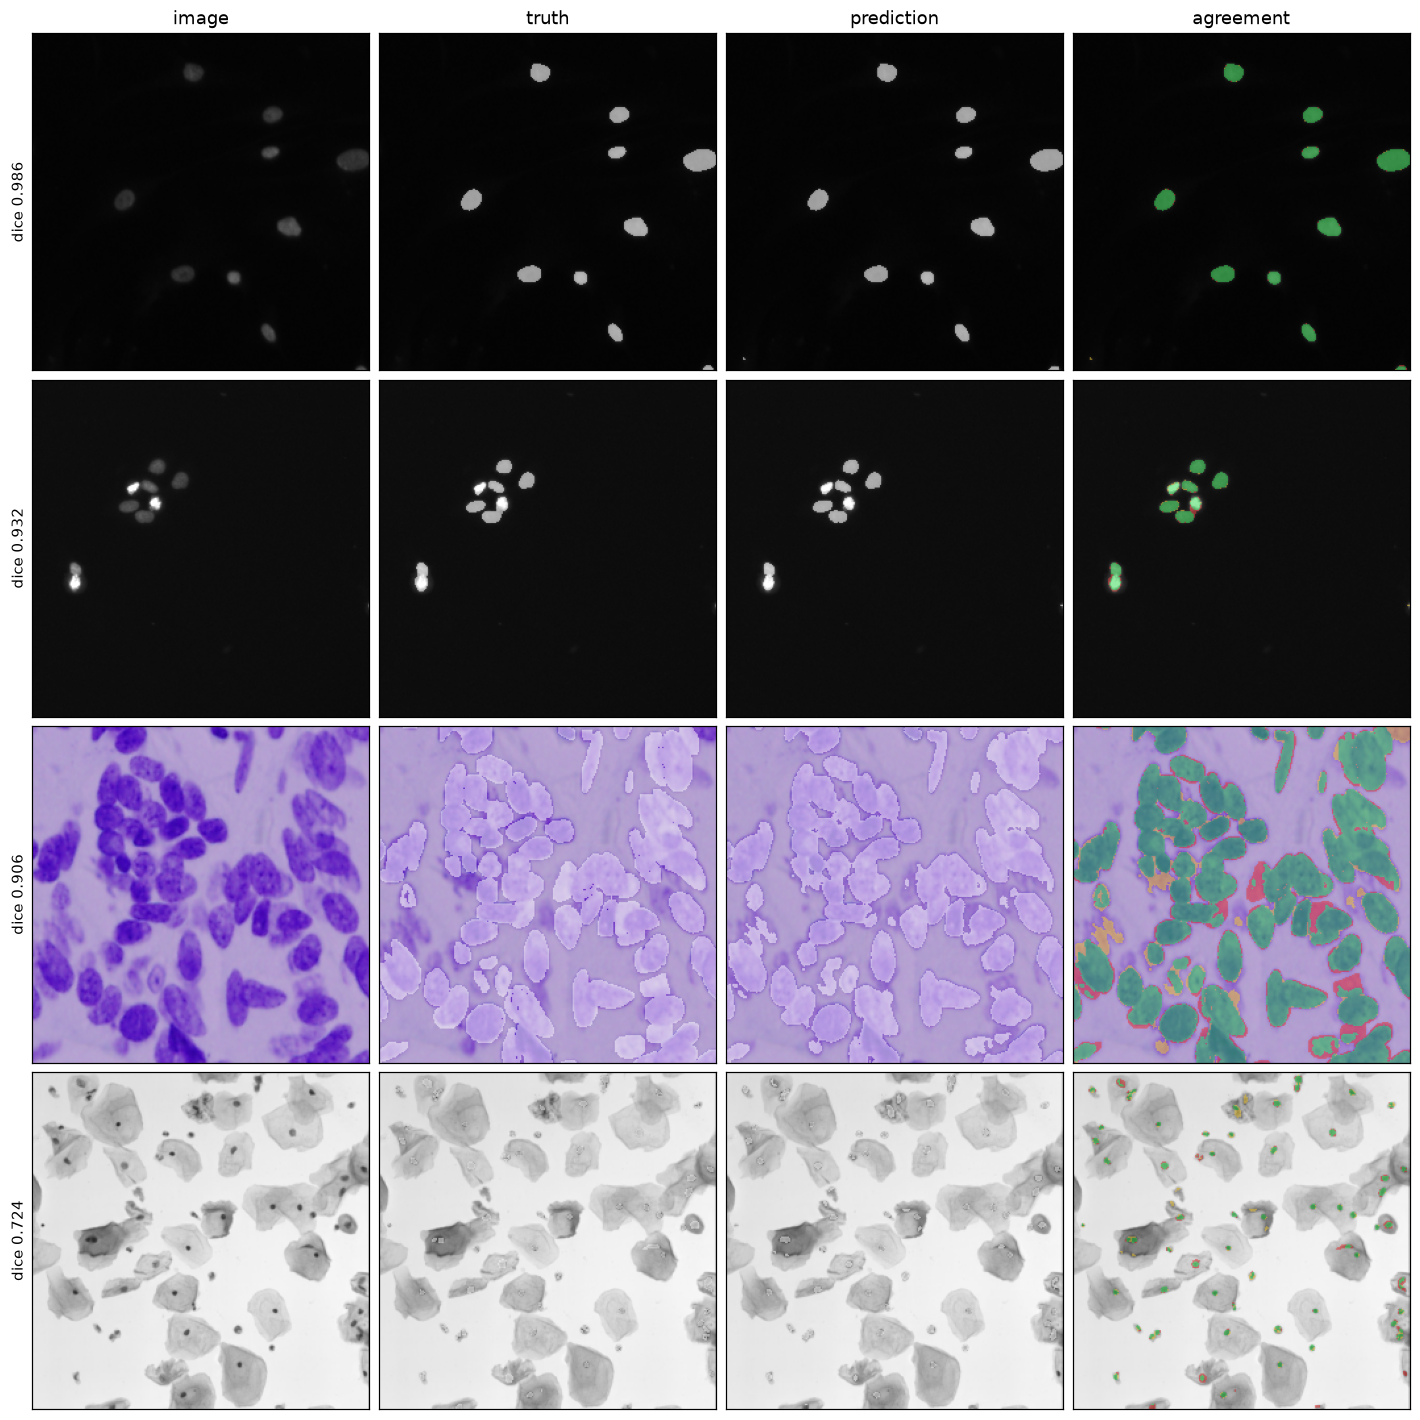
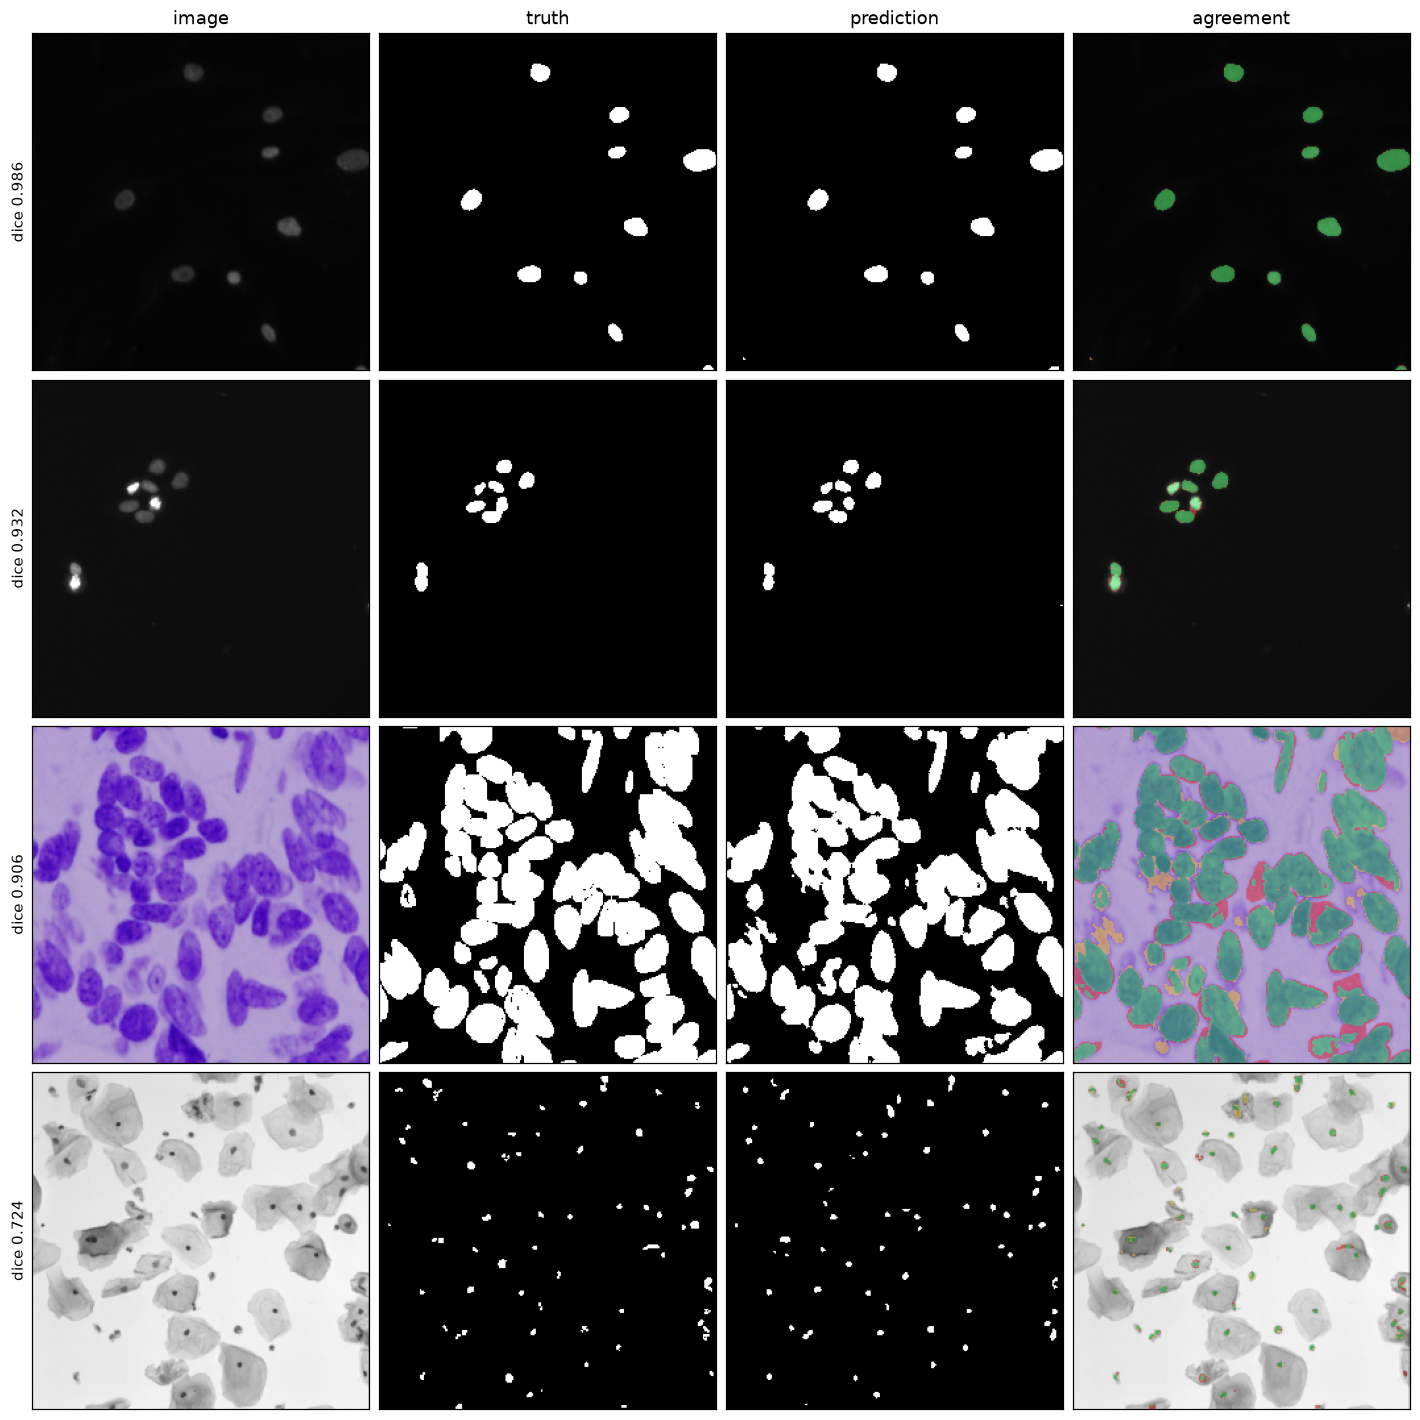
The mask panels are the mask, as R draws them
The most visible divergence of the night, found by putting the two figures side
by side rather than by reading either: R renders truth and prediction as the
mask in its own colours and keeps the image underneath only for the agreement
panel, and this tinted all three over the image. The same call, a different
picture on each side.

R's is the one that changes, which is to say neither: its figures are published
in a README and three precomputed articles, and this half is a day old. The
reasoning survives the coin-toss anyway - the agreement panel asks where the
boundary falls, so it needs the tissue, and the mask panels ask what shape the
mask is, where tissue showing through makes two shapes harder to compare.

Pinned on the pixels and not the titles: a mask panel holds nothing but colormap
colours and the agreement panel holds pixels of the image. Proven able to fail.

The colour conversion is one function now instead of living inside
`overlay_mask`, and it stays private: R exports it under this name, but the
public counterpart here would want a `Masks and volumes` group with no other
member - a sidebar section about reading, joining and writing masks, holding one
function that does none of them. Worth deciding with that group.

Noticed in passing and not acted on: R documents `alpha` as "how strongly to
tint the overlays", plural, while only one panel there is an overlay.

Claude-Session: https://claude.ai/code/session_01S6WhwioD32xP6gEHg2Ak6c

diff --git a/pyplatypus/plots.py b/pyplatypus/plots.py
@@ -27,7 +27,7 @@ import matplotlib
 import numpy as np
 from matplotlib.figure import Figure
 
-from pyplatypus.data.masks import onehot_to_colours
+from pyplatypus.data.masks import MaskError, onehot_to_colours
 from pyplatypus.errors import PlatypusError
 from pyplatypus.style import (
     AGREEMENT_COLOURS,
@@ -81,6 +81,47 @@ def _blend(picture: np.ndarray, tint: np.ndarray, where: np.ndarray, alpha: floa
         layer[where] = (1.0 - alpha) * layer[where] + alpha * tint[channel]
 
 
+def _classes_to_colours(mask: np.ndarray, colormap: list[tuple[int, int, int]]) -> np.ndarray:
+    """A mask as the picture its colormap says it is, whichever way it arrived.
+
+    Private. R exports this under this name, and the public counterpart here would want a
+    `Masks and volumes` group that has no other member - a sidebar section whose description
+    is about reading, joining and writing masks, holding one function that does none of
+    those. Worth deciding with that group rather than as a by-product of a figure.
+
+    One-hot, probabilities or class indices, all to `(h, w, 3)` uint8. The two ways in used
+    to read the same mistake differently - a one-hot mask with more channels than the
+    colormap has colours was refused by name, while an index mask was clipped, so classes 2
+    and 3 of a four-class mask were drawn in class 1's colour and nothing said so.
+
+    Args:
+        mask: `height x width` indices, or `height x width x class` one-hot or probabilities.
+        colormap: one colour per class, darkest first.
+
+    Returns:
+        The mask in colour, `height x width x 3` uint8.
+
+    Raises:
+        MaskError: if the mask holds a class the colormap has no colour for.
+
+    >>> import numpy as np
+    >>> indices = np.array([[0, 1], [1, 0]])
+    >>> _classes_to_colours(indices, [(0, 0, 0), (255, 255, 255)])[0, 1].tolist()
+    [255, 255, 255]
+    """
+    classes = np.asarray(mask)
+    if classes.ndim == 3 and classes.shape[-1] > 1:
+        return onehot_to_colours(classes, colormap)
+    indices = classes.reshape(classes.shape[:2])
+    highest = int(indices.max(initial=0))
+    if highest >= len(colormap):
+        raise MaskError(
+            f"the mask holds class {highest} but the colormap defines {len(colormap)} "
+            "classes; drawing it would show one class in another's colour"
+        )
+    return np.asarray(colormap, dtype=np.uint8)[indices]
+
+
 def overlay_mask(
     image: np.ndarray,
     mask: np.ndarray,
@@ -114,21 +155,7 @@ def overlay_mask(
     True
     """
     picture = _as_picture(image)
-    classes = np.asarray(mask)
-    if classes.ndim == 3 and classes.shape[-1] > 1:
-        coloured = onehot_to_colours(classes, colormap)
-    else:
-        indices = classes.reshape(classes.shape[:2])
-        highest = int(indices.max(initial=0))
-        if highest >= len(colormap):
-            # The one-hot path above refuses this by name, and clipping here instead meant
-            # one function read the same mistake two ways: a four-class mask drawn with two
-            # colours showed classes 2 and 3 in class 1's colour and said nothing.
-            raise PlatypusError(
-                f"the mask holds class {highest} but the colormap defines {len(colormap)} "
-                "classes; drawing it would show one class in another's colour"
-            )
-        coloured = np.asarray(colormap, dtype=np.uint8)[indices]
+    coloured = _classes_to_colours(mask, colormap)
     if coloured.shape[:2] != picture.shape[:2]:
         raise PlatypusError(
             f"the mask is {coloured.shape[:2]} and the image is {picture.shape[:2]}; "
@@ -338,15 +365,18 @@ def plot_masks(
     for row, index in enumerate(which):
         drawn = {
             "image": _as_picture(stack[index]).astype(np.uint8),
+            # The mask in its own colours rather than tinted over the image, which is what
+            # R's `plot_masks()` draws - and R's figures are the published ones, in a README
+            # and three articles. The image is underneath in the agreement panel, where the
+            # question is where the boundary falls; here the question is what shape the mask
+            # is, and tissue showing through makes two shapes harder to compare.
             "truth": (
-                None
-                if truth is None
-                else overlay_mask(stack[index], _stack(truth)[index], colormap, alpha)
+                None if truth is None else _classes_to_colours(_stack(truth)[index], colormap)
             ),
             "prediction": (
                 None
                 if prediction is None
-                else overlay_mask(stack[index], _stack(prediction)[index], colormap, alpha)
+                else _classes_to_colours(_stack(prediction)[index], colormap)
             ),
             "agreement": (
                 None

diff --git a/tests/test_plots.py b/tests/test_plots.py
@@ -289,3 +289,32 @@ def test_the_figures_are_returned_rather_than_shown_or_saved(tmp_path):
     assert matplotlib.pyplot.get_fignums() == before, "the figure went into pyplot's registry"
     assert not list(tmp_path.iterdir()), "something was written to disk"
     assert isinstance(figure, Figure)
+
+
+def test_the_mask_panels_are_the_mask_and_the_agreement_panel_is_over_the_image():
+    """Which column shows what, pinned - because the two packages disagreed about it.
+
+    R draws truth and prediction as the mask in its own colours and keeps the image
+    underneath only for the agreement panel. This drew all three over the image, so the same
+    call made a visibly different figure on each side, which is the thing `style.py` exists
+    to prevent one level down.
+
+    Asserted on the pixels rather than on the titles: a mask panel holds nothing but
+    colormap colours, and the agreement panel holds pixels of the image.
+    """
+    picture = np.zeros((1, 8, 8, 3), dtype=np.uint8)
+    picture[..., 0] = 200  # a red image, which neither the colormap nor the overlay uses
+    marks = np.zeros((1, 8, 8), dtype=int)
+    marks[0, 2:5, 2:5] = 1
+
+    figure = pyplatypus.plot_masks(picture, prediction=marks, truth=marks)
+    titles = [axis.get_title() for axis in figure.axes]
+    panels = dict(zip(titles, (axis.get_images()[0].get_array() for axis in figure.axes)))
+
+    for name in ("truth", "prediction"):
+        colours = {tuple(pixel) for pixel in np.asarray(panels[name]).reshape(-1, 3)}
+        assert colours == {(0, 0, 0), (255, 255, 255)}, (name, colours)
+
+    agreement = np.asarray(panels["agreement"])
+    assert (agreement[0, 0] == (200, 0, 0)).all(), "the image is not under the agreement"
+    assert not (agreement[3, 3] == (200, 0, 0)).all(), "the agreement was not drawn"
